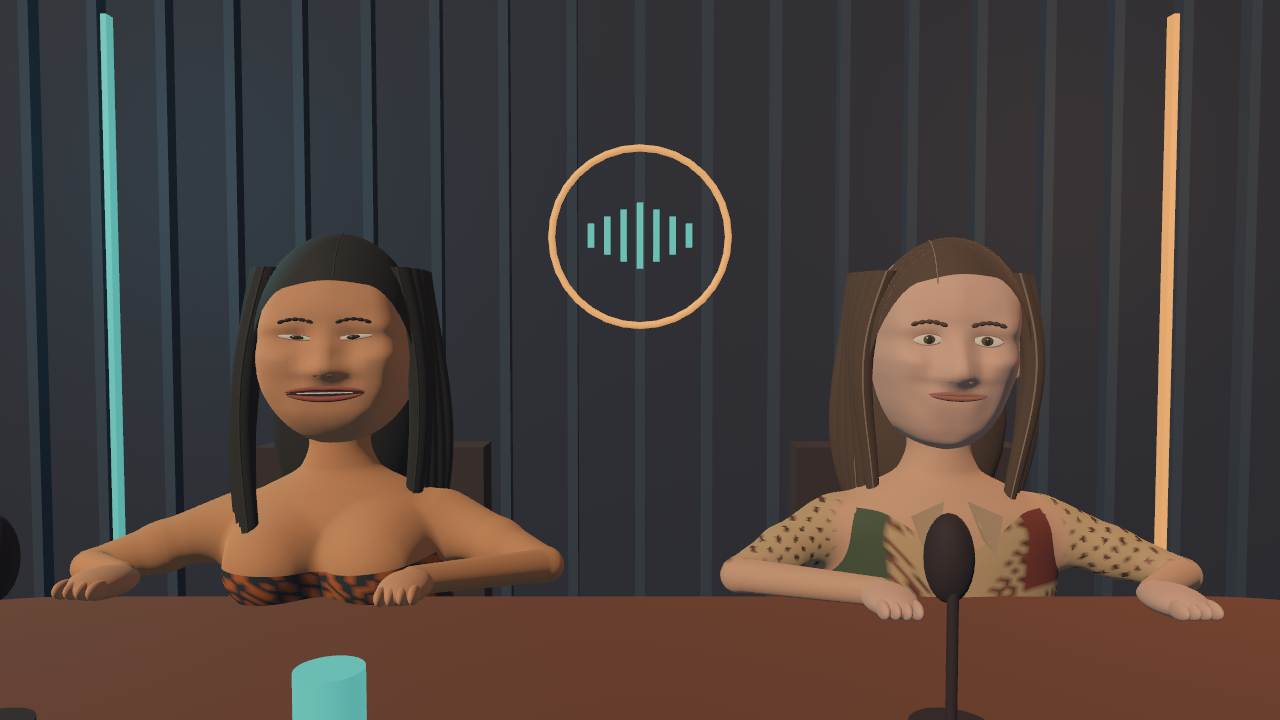
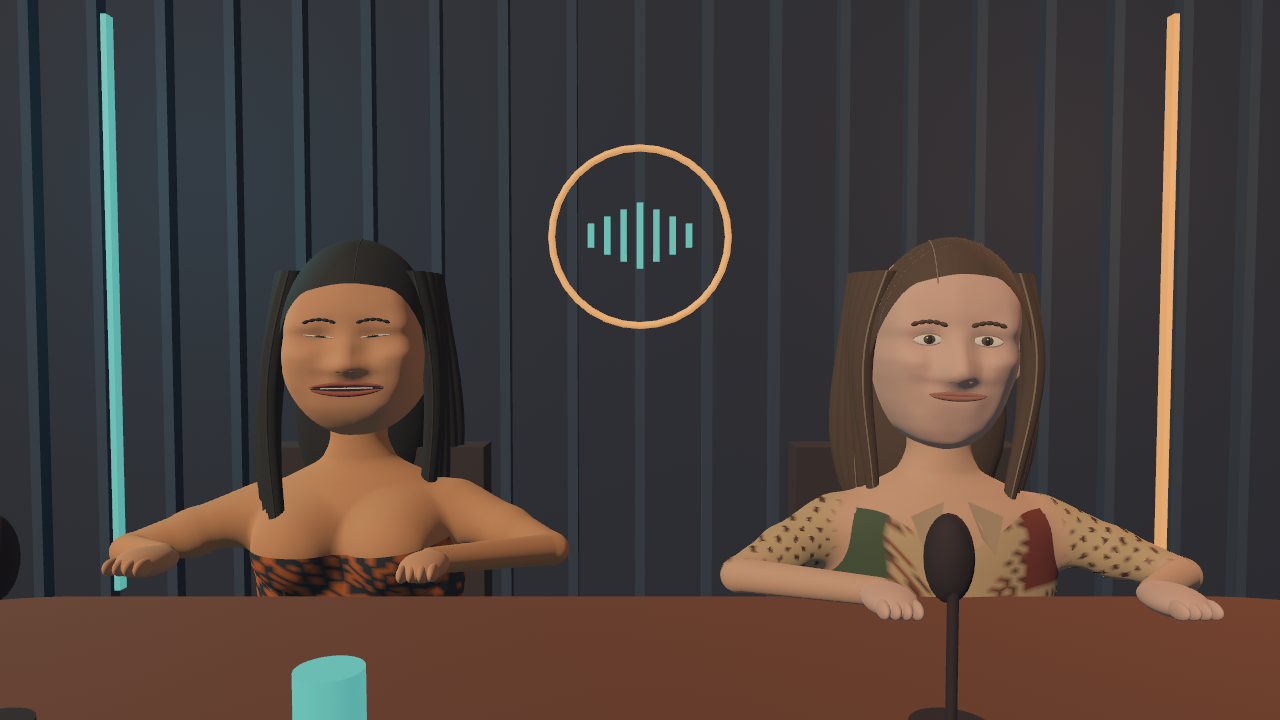
Move browser host back to keep chest clear of the desk

Changed region(s): [[0.0312, 0.3361, 0.4688, 0.8556], [0.2812, 0.3361, 0.3125, 0.3667]]

diff --git a/src/studio.rs b/src/studio.rs
@@ -133,6 +133,15 @@ pub fn host_motion(elapsed: f32, index: usize, speech: f32) -> (Quat, f32) {
     )
 }
 
+fn host_rest(index: usize) -> Transform {
+    let depth = if index == 0 {
+        desk::BACK_EDGE_Z - 0.30
+    } else {
+        0.0
+    };
+    Transform::from_xyz(if index == 0 { -0.76 } else { 0.76 }, 0.76, depth)
+}
+
 pub fn arm_rotation(phase: f32, side: f32, speech: f32) -> Quat {
     let gesture = speech * (0.5 + 0.5 * (phase * 1.8 + side).sin());
     Quat::from_euler(
@@ -281,11 +290,7 @@ fn host(
 ) {
     let portrait = portrait::Portrait::for_host(index);
     let root = commands
-        .spawn((
-            Host { index },
-            Transform::from_xyz(if index == 0 { -0.76 } else { 0.76 }, 0.76, 0.0),
-            Visibility::default(),
-        ))
+        .spawn((Host { index }, host_rest(index), Visibility::default()))
         .id();
     let garment = meshes.add(portrait::garment(index));
     object(
@@ -813,6 +818,70 @@ mod tests {
     use super::*;
 
     #[test]
+    fn chest_and_top_stay_behind_the_desk_while_hands_still_reach_it() {
+        use bevy::mesh::VertexAttributeValues;
+
+        let surface = body::surface(0);
+        let garment = portrait::garment(0);
+        let Some(VertexAttributeValues::Float32x3(garment_positions)) =
+            garment.attribute(Mesh::ATTRIBUTE_POSITION)
+        else {
+            panic!("missing garment positions")
+        };
+        let torso_positions = surface
+            .positions
+            .iter()
+            .zip(&surface.weights)
+            .filter(|(_, weights)| weights[0] >= 0.99)
+            .map(|(point, _)| point)
+            .chain(garment_positions);
+        let (minimum, maximum) = torso_positions.fold(
+            (Vec3::splat(f32::INFINITY), Vec3::splat(f32::NEG_INFINITY)),
+            |(minimum, maximum), point| {
+                let point = Vec3::from_array(*point);
+                (minimum.min(point), maximum.max(point))
+            },
+        );
+        let bounds = [arm_bounds(0, -1.0), arm_bounds(0, 1.0)];
+        for frame in 0..960 {
+            let elapsed = frame as f32 * 0.125;
+            for speech_step in 0..=10 {
+                let speech = speech_step as f32 / 10.0;
+                let (rotation, height) = host_motion(elapsed, 0, speech);
+                let mut host = host_rest(0).with_rotation(rotation);
+                host.translation.y = height;
+                for corner in 0..8 {
+                    let point = Vec3::from_array(std::array::from_fn(|axis| {
+                        if corner & (1 << axis) == 0 {
+                            minimum[axis]
+                        } else {
+                            maximum[axis]
+                        }
+                    }));
+                    assert!(
+                        host.transform_point(point).z <= desk::BACK_EDGE_Z - 0.02,
+                        "torso intersects desk: time {elapsed}, speech {speech}, corner {point:?}"
+                    );
+                }
+                for (joint, side) in [(0, -1.0), (1, 1.0)] {
+                    let mut arm = Transform::from_translation(body::shoulder(side))
+                        .with_rotation(arm_rotation(elapsed, side, speech));
+                    bounds[joint].keep_above_desk(&host, &mut arm);
+                    for hand in hand_parts(side) {
+                        let matrix = host.to_matrix() * arm.to_matrix() * hand.to_matrix();
+                        let depth_extent =
+                            Vec3::new(matrix.x_axis.z, matrix.y_axis.z, matrix.z_axis.z).length();
+                        assert!(
+                            matrix.w_axis.z - depth_extent >= desk::BACK_EDGE_Z + ARM_CLEARANCE,
+                            "hand no longer reaches desk: time {elapsed}, speech {speech}, side {side}"
+                        );
+                    }
+                }
+            }
+        }
+    }
+
+    #[test]
     fn complete_arms_clear_the_desk_during_breathing_leaning_and_gestures() {
         for index in 0..2 {
             for side in [-1.0, 1.0] {
@@ -822,9 +891,8 @@ mod tests {
                     for speech_step in 0..=10 {
                         let speech = speech_step as f32 / 10.0;
                         let (rotation, height) = host_motion(elapsed, index, speech);
-                        let host =
-                            Transform::from_xyz(if index == 0 { -0.76 } else { 0.76 }, height, 0.0)
-                                .with_rotation(rotation);
+                        let mut host = host_rest(index).with_rotation(rotation);
+                        host.translation.y = height;
                         let mut arm = Transform::from_xyz(side * 0.29, 0.55, 0.0).with_rotation(
                             arm_rotation(elapsed + index as f32 * 1.83, side, speech),
                         );
@@ -855,7 +923,8 @@ mod tests {
                 for speech_step in 0..=10 {
                     let speech = speech_step as f32 / 10.0;
                     let (rotation, height) = host_motion(elapsed, index, speech);
-                    let host = Transform::from_xyz(0.0, height, 0.0).with_rotation(rotation);
+                    let mut host = host_rest(index).with_rotation(rotation);
+                    host.translation.y = height;
                     let matrices: [Mat4; 2] = std::array::from_fn(|joint| {
                         let side = if joint == 0 { -1.0 } else { 1.0 };
                         let mut arm =

diff --git a/src/studio/desk.rs b/src/studio/desk.rs
@@ -11,6 +11,7 @@ const THICKNESS: f32 = 0.10;
 const CENTER_Z: f32 = 0.65;
 const HALF_STRAIGHT: f32 = 1.35;
 const RADIUS: f32 = 0.50;
+pub const BACK_EDGE_Z: f32 = CENTER_Z - RADIUS;
 const INSET: f32 = 0.03;
 
 pub fn tabletop() -> Mesh {

diff --git a/README.md b/README.md
@@ -34,6 +34,8 @@ OBS records the app window and the two audio channels.
   Arms, hands and fingers stay above the desk surface during these movements
   using a lightweight geometric constraint over arm-surface vertices and hand
   bounds, without a physics engine.
+  Host 1 sits farther back so the chest and top stay behind the desk edge
+  during leaning and breathing, while both hands still reach the tabletop.
 - A shared desk, studio lighting, microphones and three smoothly changing
   camera angles. Rendering starts at 1280 × 720 with a 30 fps target.
   The rounded tabletop and inset apron are closed meshes, avoiding overlapping
